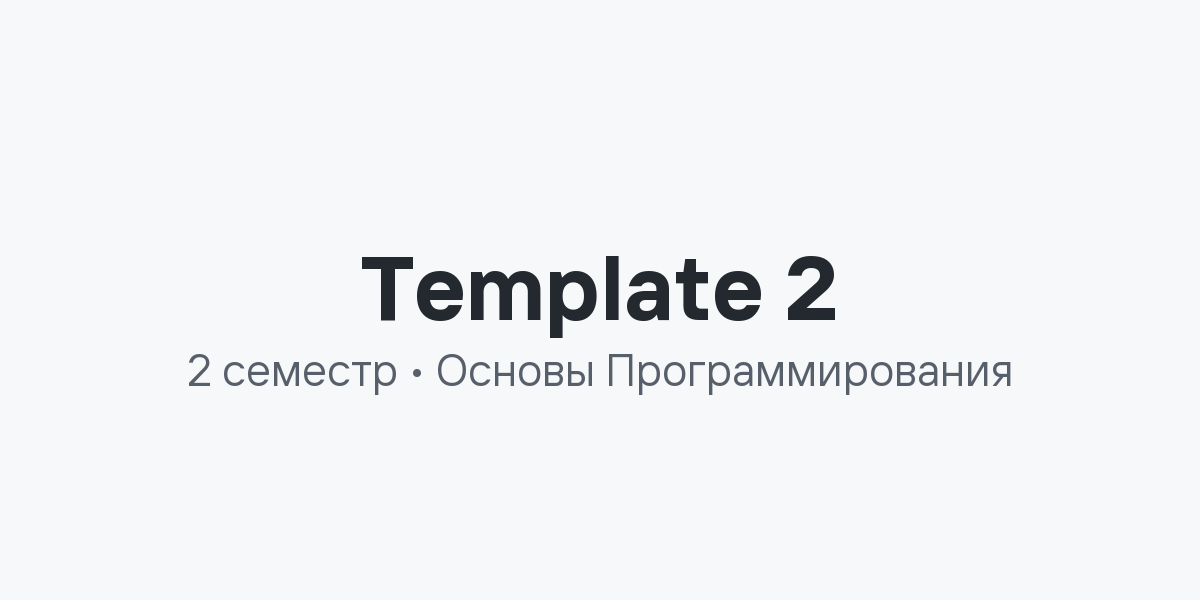
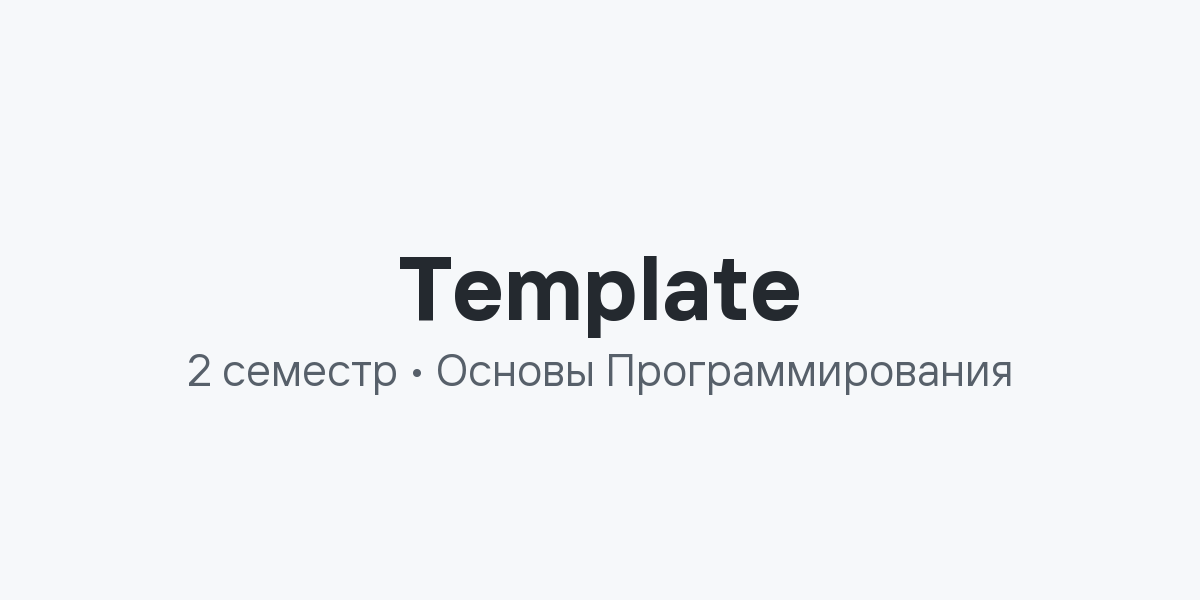
update

Changed region(s): [[0.2775, 0.42, 0.7092, 0.57]]

diff --git a/content/posts/functional-objects-02-19/index.md b/content/posts/functional-objects-02-19/index.md
@@ -1,5 +1,5 @@
 ---
-title: Функциональные объекты (and something more)
+title: Функциональные объекты
 date: 2025-02-19
 cover: images/cover.png
 tags:

diff --git a/content/posts/template-2-04-23/index.md b/content/posts/template-2-04-23/index.md
@@ -1,5 +1,5 @@
 ---
-title: Template 2
+title: Templates (еще глубже!)
 date: 2025-04-23
 cover: images/cover.png
 tags:

diff --git a/content/posts/std-function-03-26/index.md b/content/posts/std-function-03-26/index.md
@@ -1,5 +1,5 @@
 ---
-title: std::function 
+title: MyFunction
 date: 2025-03-26
 cover: images/cover.png
 tags:
